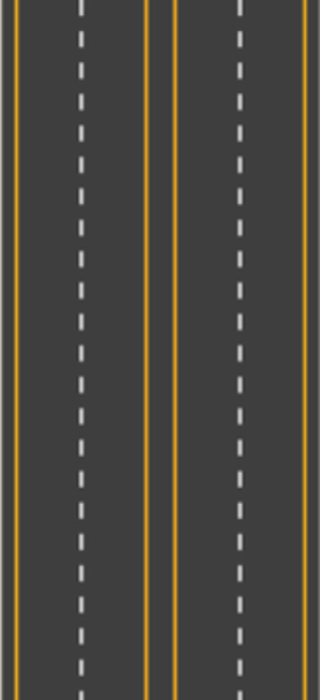
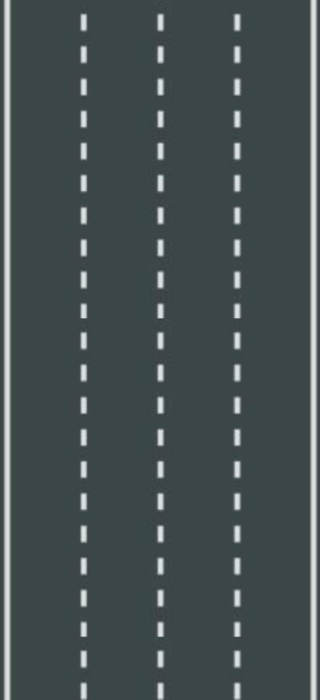
Update RoadLabel

diff --git a/src/View/Game/CarGameView.java b/src/View/Game/CarGameView.java
@@ -1,5 +1,6 @@
-package view;
+package View.Game;
 
+import Controller.ControllerGame.CarController;
 import java.awt.Color;
 import java.awt.Graphics;
 import java.awt.Image;
@@ -10,105 +11,165 @@ import javax.swing.JFrame;
 import javax.swing.JLabel;
 import javax.swing.JPanel;
 import javax.swing.JTextField;
-
+import javax.swing.SwingUtilities;
+import View.Game.*;
 public class CarGameView extends JFrame {
-	private JPanel jPanel_Center, jPanel_Left, jPanel_Right;
-	private JButton jButton_Pause;
-	private JLabel jLabel_IconCoin, jLabel_Car, jLabel_Coin, jLabel_Barrier_Car, jLabel_Barrier_Fence;
-	private JTextField jTextField_Point, jTextField_Coin;
 
-	public CarGameView() {
-		this.init();
-	}
+    private JPanel jPanel_Center, jPanel_Left, jPanel_Right;
+    private JButton jButton_Pause;
+    private JLabel jLabel_IconCoin, jLabel_Car, jLabel_Coin, jLabel_Barrier_Car, jLabel_Barrier_Fence;
+    private JTextField jTextField_Point, jTextField_Coin;
+    private RoadLabel jLabel_Road;
 
-	private void init() {
-		this.setTitle("Car Game");
-		this.setSize(640, 700);
-		this.setDefaultCloseOperation(JFrame.EXIT_ON_CLOSE);
-		this.setLocationRelativeTo(null);
-		this.setLayout(null);
+    public CarGameView() {
+        this.init();
+//        CarController carController = new CarController(jLabel_Road);
+//        carController.startAnimation();
+    }
 
-		jPanel_Center = new JPanel() {
-			@Override
-			protected void paintComponent(Graphics g) {
-				super.paintComponent(g);
-				ImageIcon imageIcon_Road = new ImageIcon("Image/Road.png");
-				Image image_Road = imageIcon_Road.getImage();
-				g.drawImage(image_Road, 0, 0, getWidth(), getHeight(), this);
-			}
-		};
-		jPanel_Center.setBounds(160, 0, 320, 700);
-		jPanel_Center.setLayout(null);
+    private void init() {
+        this.setTitle("Car Game");
+        this.setSize(640, 700);
+        this.setDefaultCloseOperation(JFrame.EXIT_ON_CLOSE);
+        this.setLocationRelativeTo(null);
+        this.setLayout(null);
 
+        jPanel_Center = new JPanel();
+//        {
+//            @Override
+//            protected void paintComponent(Graphics g) {
+//                super.paintComponent(g);
+//                ImageIcon imageIcon_Road = new ImageIcon("Image/Road.png");
+//                Image image_Road = imageIcon_Road.getImage();
+//                g.drawImage(image_Road, 0, 0, getWidth(), getHeight(), this);
+//            }
+//        };
+        jPanel_Center.setBounds(160, 0, 320, 700);
+        jPanel_Center.setLayout(null);
+        jPanel_Center.setBackground(Color.BLUE);
+        jLabel_Road = new RoadLabel("Image/Road.png");
+        jLabel_Road.setSize(320, 700);
+        jLabel_Road.setBackground(Color.red);
+        jLabel_Road.setLayout(null);
 //		Car, Barrier : 25; 88; 183; 247 Coin: 30; 94; 192; 255
+        jLabel_Car = new CarView();
+        
+        jLabel_Coin = new JLabel(new ImageIcon("Image/coinn.png"));
+        jLabel_Coin.setOpaque(false);
+        jLabel_Coin.setBackground(Color.BLUE);
+        jLabel_Coin.setBounds(94, 50, 35, 35);
 
-		jLabel_Car = new JLabel(new ImageIcon("Image/Car_01.png"));
-		jLabel_Car.setOpaque(true);
-		jLabel_Car.setBackground(Color.BLUE);
-		jLabel_Car.setBounds(25, 530, 50, 80);
+        jLabel_Barrier_Car = new JLabel(new ImageIcon("Image/Car_02.png"));
+        jLabel_Barrier_Car.setOpaque(false);
+        jLabel_Barrier_Car.setBackground(Color.BLUE);
+        jLabel_Barrier_Car.setBounds(183, 200, 50, 80);
 
-		jLabel_Coin = new JLabel(new ImageIcon("Image/Coin.png"));
-		jLabel_Coin.setOpaque(true);
-		jLabel_Coin.setBackground(Color.BLUE);
-		jLabel_Coin.setBounds(94, 50, 35, 35);
-
-		jLabel_Barrier_Car = new JLabel(new ImageIcon("Image/Barrier_Car_01.png"));
-		jLabel_Barrier_Car.setOpaque(true);
-		jLabel_Barrier_Car.setBackground(Color.BLUE);
-		jLabel_Barrier_Car.setBounds(183, 200, 50, 80);
-
-		jLabel_Barrier_Fence = new JLabel(new ImageIcon("Image/Barrier_Fence.png"));
-		jLabel_Barrier_Fence.setOpaque(true);
+        jLabel_Barrier_Fence = new JLabel(new ImageIcon("Image/Barrier_Fence.png"));
+        jLabel_Barrier_Fence.setOpaque(false);
 //		jLabel_Barrier_Fence.setBackground(Color.BLUE);
-		jLabel_Barrier_Fence.setBounds(247, 200, 50, 30);
+        jLabel_Barrier_Fence.setBounds(247, 200, 50, 30);
 
-		jPanel_Center.add(jLabel_Car);
-		jPanel_Center.add(jLabel_Coin);
-		jPanel_Center.add(jLabel_Barrier_Car);
-		jPanel_Center.add(jLabel_Barrier_Fence);
+        jLabel_Road.add(jLabel_Car);
+        jLabel_Road.add(jLabel_Coin);
+        jLabel_Road.add(jLabel_Barrier_Car);
+        jLabel_Road.add(jLabel_Barrier_Fence);
 
-		jPanel_Left = new JPanel() {
-			@Override
-			protected void paintComponent(Graphics g) {
-				super.paintComponent(g);
-				ImageIcon imageIcon_Roadside_Left = new ImageIcon("Image/Roadside_Left_01.png");
-				Image image_Roadside_Left = imageIcon_Roadside_Left.getImage();
-				g.drawImage(image_Roadside_Left, 0, 0, getWidth(), getHeight(), this);
-			}
-		};
-		jPanel_Left.setBounds(0, 0, 160, 700);
-		jPanel_Left.setLayout(null);
-		jButton_Pause = new JButton("PAUSE");
-		jButton_Pause.setBounds(5, 5, 80, 30);
-		jPanel_Left.add(jButton_Pause);
+        jPanel_Left = new JPanel() {
+            @Override
+            protected void paintComponent(Graphics g) {
+                super.paintComponent(g);
+                ImageIcon imageIcon_Roadside_Left = new ImageIcon("Image/Roadside_Left.png");
+                Image image_Roadside_Left = imageIcon_Roadside_Left.getImage();
+                g.drawImage(image_Roadside_Left, 0, 0, getWidth(), getHeight(), this);
+            }
+        };
+        jPanel_Left.setBounds(0, 0, 160, 700);
+        jPanel_Left.setLayout(null);
+        jButton_Pause = new JButton("PAUSE");
+        jButton_Pause.setBounds(5, 5, 80, 30);
+        jPanel_Left.add(jButton_Pause);
 
-		jPanel_Right = new JPanel() {
-			@Override
-			protected void paintComponent(Graphics g) {
-				super.paintComponent(g);
-				ImageIcon imageIcon = new ImageIcon("Image/Roadside_Left_02.png");
-				Image image = imageIcon.getImage();
-				g.drawImage(image, 0, 0, getWidth(), getHeight(), this);
-			}
-		};
-		jPanel_Right.setBounds(480, 0, 160, 700);
-		jPanel_Right.setLayout(null);
-		jTextField_Point = new JTextField();
-		jTextField_Point.setBounds(80, 0, 80, 30);
-		jPanel_Right.add(jTextField_Point);
+        jPanel_Right = new JPanel() {
+            @Override
+            protected void paintComponent(Graphics g) {
+                super.paintComponent(g);
+                ImageIcon imageIcon = new ImageIcon("Image/Roadside_Right.png");
+                Image image = imageIcon.getImage();
+                g.drawImage(image, 0, 0, getWidth(), getHeight(), this);
+            }
+        };
+        jPanel_Right.setBounds(480, 0, 160, 700);
+        jPanel_Right.setLayout(null);
+        jTextField_Point = new JTextField();
+        jTextField_Point.setBounds(80, 0, 80, 30);
+        jPanel_Right.add(jTextField_Point);
 
-		jTextField_Coin = new JTextField();
-		jTextField_Coin.setBounds(100, 40, 60, 30);
-		jPanel_Right.add(jTextField_Coin);
-		jLabel_IconCoin = new JLabel(new ImageIcon("Image/Coin.png"));
-		jLabel_IconCoin.setBounds(80, 40, 20, 30);
-		jPanel_Right.add(jLabel_IconCoin);
+        jTextField_Coin = new JTextField();
+        jTextField_Coin.setBounds(100, 40, 60, 30);
+        jPanel_Right.add(jTextField_Coin);
+        jLabel_IconCoin = new JLabel(new ImageIcon("Image/Coin.png"));
+        jLabel_IconCoin.setBounds(60, 40, 30, 30);
+        jLabel_Coin.setOpaque(false);
+        jPanel_Right.add(jLabel_IconCoin);
+        jPanel_Center.add(jLabel_Road);
+        this.add(jPanel_Center);
+        this.add(jPanel_Left);
+        this.add(jPanel_Right);
 
-		this.add(jPanel_Center);
-		this.add(jPanel_Left);
-		this.add(jPanel_Right);
+        //this.setVisible(true);
+    }
 
-		//this.setVisible(true);
-	}
+    public int getCarY() {
+        return jLabel_Car.getY();
+    }
 
+    public int getCoinY() {
+        return jLabel_Coin.getY();
+    }
+
+    public int getBarrierCarY() {
+        return jLabel_Barrier_Car.getY();
+    }
+
+    public int getBarrierFenceY() {
+        return jLabel_Barrier_Fence.getY();
+    }
+
+    public int getPanelHeight() {
+        return jPanel_Center.getHeight();
+    }
+
+    public void setCarLocation(int y) {
+        jLabel_Car.setLocation(jLabel_Car.getX(), y);
+    }
+
+    public void setCoinLocation(int y) {
+        jLabel_Coin.setLocation(jLabel_Coin.getX(), y);
+    }
+
+    public void setBarrierCarLocation(int y) {
+        jLabel_Barrier_Car.setLocation(jLabel_Barrier_Car.getX(), y);
+    }
+
+    public void setBarrierFenceLocation(int y) {
+        jLabel_Barrier_Fence.setLocation(jLabel_Barrier_Fence.getX(), y);
+    }
+
+    public class CarView extends JLabel {
+
+        public CarView() {
+            super(new ImageIcon("Image/Car_01.png"));
+            setOpaque(true);
+            setBackground(Color.BLUE);
+            setBounds(25, 530, 50, 80);
+            setOpaque(false);
+        }
+    }
+
+    public static void main(String[] args) {
+        CarGameView view = new CarGameView();
+        CarController  carController = new CarController(view);
+        view.setVisible(true);
+        carController.start();
+    }
 }

diff --git a/src/View/Game/RoadLabel.java b/src/View/Game/RoadLabel.java
@@ -1,0 +1,44 @@
+package View.Game;
+
+import javax.swing.*;
+import java.awt.*;
+import java.awt.event.ActionEvent;
+import java.awt.event.ActionListener;
+
+public class RoadLabel extends JLabel implements ActionListener {
+    private Image roadImage;
+    private int roadY = 0; // Vị trí của ảnh đường theo trục Y
+    private int roadSpeed = 3; // Tốc độ di chuyển của đường
+    private Timer timer;
+
+    public RoadLabel(String imagePath) {
+        ImageIcon icon = new ImageIcon(imagePath);
+        roadImage = icon.getImage();
+        setPreferredSize(new Dimension(icon.getIconWidth(), icon.getIconHeight()));
+        
+        // Khởi tạo và bắt đầu Timer để cập nhật vị trí của ảnh
+        timer = new Timer(20, this);
+        timer.start();
+    }
+
+    @Override
+    protected void paintComponent(Graphics g) {
+        super.paintComponent(g);
+        // Vẽ ảnh đường tại vị trí hiện tại
+        g.drawImage(roadImage, 0, roadY, getWidth(), getHeight(), this);
+        // Vẽ lại ảnh đường ở phía trên để tạo hiệu ứng lặp lại
+        g.drawImage(roadImage, 0, roadY - getHeight(), getWidth(), getHeight(), this);
+    }
+
+    @Override
+    public void actionPerformed(ActionEvent e) {
+        // Cập nhật vị trí của đường
+        roadY += roadSpeed;
+        // Nếu ảnh đường di chuyển ra khỏi phía dưới của JLabel, đặt lại vị trí
+        if (roadY >= getHeight()) {
+            roadY = 0;
+        }
+        // Yêu cầu vẽ lại JLabel để cập nhật hiển thị
+        repaint();
+    }
+}

diff --git a/src/Controller/ControllerGame/CarController.java b/src/Controller/ControllerGame/CarController.java
@@ -1,0 +1,33 @@
+package Controller.ControllerGame;
+
+import View.Game.CarGameView;
+import java.util.Random;
+import javax.swing.*;
+
+public class CarController extends Thread {
+    private JLabel barrierCar, barrierFence;
+    private CarGameView view;
+    private int roadSpeed = 3;
+    Random random = new Random();
+    public CarController(CarGameView view){
+        this.view = view;
+    }
+    public void run(){
+        while(true){
+            int barrierCar = -100;
+            int barrierFence = -100;
+            
+            while(barrierCar < view.getPanelHeight() || barrierFence < view.getPanelHeight()){
+                barrierCar += roadSpeed;
+                barrierFence += roadSpeed;
+                view.setBarrierCarLocation(barrierCar);
+                view.setBarrierFenceLocation(barrierFence);
+                try{
+                    sleep(20);
+                }catch(InterruptedException e){
+                    e.printStackTrace();
+                }
+            }
+        }
+    }
+}

diff --git a/src/View/ViewMenu/MainMenuView.java b/src/View/ViewMenu/MainMenuView.java
@@ -5,7 +5,7 @@ import Controller.ControllerMenu.InstructionsController;
 import Controller.ControllerMenu.MainMenuController;
 import javax.swing.*;
 import java.awt.*;
-import view.CarGameView;
+import View.Game.CarGameView;
 
 public class MainMenuView extends JFrame {
 

diff --git a/src/Controller/ControllerGame/MainGameController.java b/src/Controller/ControllerGame/MainGameController.java
@@ -1,6 +1,6 @@
 package Controller.ControllerGame;
 
-import view.CarGameView;
+
 
 /**
  *
